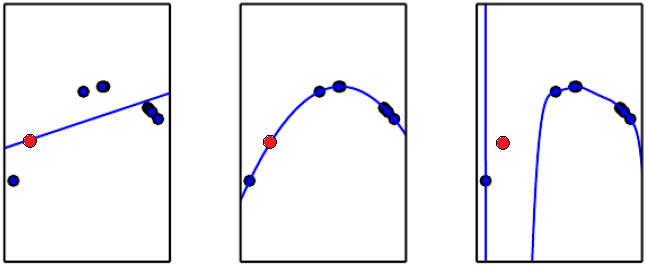
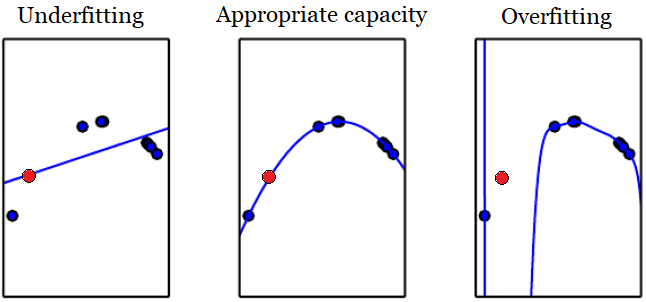
Update on Overleaf.

Changed region(s): [[0.7121, 0.0, 1.0, 0.9925], [0.3406, 0.0, 0.6811, 0.9925], [0.0, 0.0, 0.2786, 0.9925]]

diff --git a/chapters/state-of-the-art.tex b/chapters/state-of-the-art.tex
@@ -1,3 +1,7 @@
+\documentclass[../main.tex]{subfiles}
+
+\begin{document}
+
 \chapter{State of the Art}
 A typical powered exoskeleton\footnote{Definition provided by \textcite{Gorgey2018}: "Robotic exoskeletons or powered exoskeletons are considered wearable robotic units controlled by computer boards to power a system of motors, pneumatics, levers, or hydraulics to restore locomotion" \parencite[113]{Gorgey2018}.} would have a motor or some sort of actuator to produce torque at the joints (e.g. knee joint) to enable or assist the user.
 The amount of torque produced for any given motion depends on the control system of the exoskeleton.
@@ -30,18 +34,17 @@ Then it goes into detail about \ac{EMG} and its relation to muscle activity befo
 \label{sec:A-NonEMGBasedModels}
 \textit{Inverse dynamics} is, as defined by the Dictionary of Sport and Exercise Science and Medicine, "the calculation of forces and moments by using kinematics and data for mass and moment of inertia, effectively using Newton's second law of motion ($f = ma$) in reverse."\footnote{"inverse dynamics." Dictionary of Sport and Exercise Science and Medicine by Churchill Livingstone. 2008. Elsevier Limited 18 Mar. 2019 \url{https://medical-dictionary.thefreedictionary.com/inverse+dynamics}}
 In relation to the human body this means the use of kinetics and kinematics, e.g. motion capture, scaled model, and force plate data from a motion lab, to calculate joint torque estimations.
-As the method works with the equation of motion, it relies on correct scaling of each body segment, and joints angles and positions relative to the reaction forces \cite{Buchanan2004,Erdemir2007}.
+As the method works with the equation of motion, it relies on correct scaling of each body segment, and joints angles and positions relative to the reaction forces \cite{Erdemir2007, Buchanan2004}.
 Extensive research has been done on inverse dynamics and it is widely used in clinical applications such as, for example, gait analysis in rehabilitation \cite{Erdemir2007,Buchanan2004,Pizzolato2015}.
 
 OpenSim \cite{Delp2007, Seth2018} is an open-source software offering biomechanical models and simulation tools to, among many other things, model and run inverse dynamic solution on a scaled musculoskeletal model \cite{Buchanan2004, Delp2007, Seth2018, Pizzolato2017}.
 
 The inverse dynamics method alone does not provide any information about muscle activation and muscle forces.
 There are several methods that have been implemented to estimate muscle activation and muscle forces \cite{Erdemir2007}.
-Perhaps the most notable ones that are not \ac{EMG}-drive are the static and dynamic optimization methods \cite{Erdemir2007, Delp2007, Pizzolato2015}. 
+Perhaps the most notable ones that are not \ac{EMG}-drive are the static and dynamic optimization methods \cite{Erdemir2007, Pizzolato2015, Delp2007}. 
 
 The \textit{static optimization} method uses optimization with an objective function such as, for example, minimizing the sum of muscle forces from all muscles. 
 Through iteration the muscle forces, that both fit to the estimated joint torque from the inverse dynamics model and satisfy the objective function, are calculated \cite{Erdemir2007}. 
-\todo{Write about pros and cons of this method and include more references}
 
 \textit{Dynamic optimization} is an alternative to static optimization which, in short, uses forward dynamics to find the set of muscle activations that best fit the experimental kinematic data (e.g. with objective to minimize tracking error in kinematics and \ac{GRF}). 
 This method does not require inverse dynamics to first estimate joint torques since the constraint is rather the measured motion and \ac{GRF} data.
@@ -135,7 +138,13 @@ That motivates their development of \ac{CEINMS}, a tool developed to increase sa
 
 \section{Exoskeletons as Assistive Devices}
 \label{sec:A-Exoskeletons}
-The exoskeleton, as it will be discussed here, refers to a mobile electromechanical structure which can be worn by a human to provide power amplification, support and/or assistance in human motion. Exoskeletons can also be used for haptic interactions \cite{Anam2012}, but the focus here will be on the groups mentioned before. More specifically, the focus is on exoskeletons as assistive devices for those with physical impairment, i.e. for rehabilitation and/or normal human motion. This excludes exoskeletons as power amplification for professional or military purposes.
+The exoskeleton, as it will be discussed here, refers to a mobile electromechanical structure which can be worn by a human to provide power amplification, support and/or assistance in human motion (see figure \ref{fig:exoskeleton}). Exoskeletons can also be used for haptic interactions \cite{Anam2012}, but the focus here will be on the groups mentioned before. More specifically, the focus is on exoskeletons as assistive devices for those with physical impairment, i.e. for rehabilitation and/or normal human motion. This excludes exoskeletons as power amplification for professional or military purposes.
+\begin{figure}[ht]
+    \centering
+    \includegraphics[width=0.75\textwidth]{img/exoskeleton}
+    \caption{Two different designs of an exoskeleton. The one on the left is the Hyprid Assistive Limb exoskeleton developed by Cyberdyne for the purpose of aiding individuals with disabilities. The one on the right is the Ekso exoskeleton which is mostly used for rehabilitation purposes. The figure is adapted from \cite[Fig. 3]{Young2017}}
+    \label{fig:exoskeleton}
+\end{figure}
 
 To be able to provide assist to motion the exoskeleton needs a human-exoskeleton interaction together with a control system. 
 The control system is how the human motion is translated into mechanical activation, and vice versa. 
@@ -152,11 +161,10 @@ For example, one of the categories is the artificial intelligent method where on
 The \textit{muscle model} uses muscle neural activity and/or joint kinematics to predict muscle forces and resulting joint moments. These models can be split into the two categories: parametric and non-parametric muscle model. 
 The difference between them is that in addition to \ac{EMG} data the parametric model needs anthropometric data with information of muscle and joint dynamic \cite{Anam2012}.
 This is much like the \ac{EMG}-driven models discussed in the previous chapter \cite{Pizzolato2015}.
-The \textit{muscle model} has been researched as a way to provide real-time prediction of muscle forces and joint torques \cite{Anam2012, durandau, Pizzolato2015}. 
+The \textit{muscle model} has been researched as a way to provide real-time prediction of muscle forces and joint torques \cite{Pizzolato2015, Anam2012, durandau}. 
 Furthermore, as mentioned by \textcite{Anam2012}, much effort has been made towards predicting the user's intentions beforehand by using \ac{EMG} data.
-The Hill-type muscle model is possibly the most researched parametric muscle model and some modifications of it have been made throughout the years to make it more accurate \cite{Lloyd2003, Anam2012, Pizzolato2015, Lee14-1}.
-For the non-parametric muscle model an artificial neural network could be used \cite{Kiguchi2012,Lee14-1}.  
-\todo{Find more references towards exoskeletons and do more comparisons between methods}
+The Hill-type muscle model is possibly the most researched parametric muscle model and some modifications of it have been made throughout the years to make it more accurate \cite{Pizzolato2015, Lloyd2003, Anam2012, Lee14-1}.
+For the non-parametric muscle model an artificial neural network could be used \cite{Lee14-1, Kiguchi2012}.  
 
 \section{Artificial neural networks in biomechanics}
 The methods to predict joint torque discussed previously all use calculations based on anthropometry and dynamic models of the human body. 
@@ -204,11 +212,12 @@ All these concepts of machine learning apply to the subcategory of \acp{ANN} as 
 %Capacity: Representational capacity is what "specifies which family of functions the learning algorithm can choose from". Effective capacity refers to the fact that the "best" function within the family is rarely found and thus the actual capacity may be less than the representational capacity \parencite[111]{Goodfellow2016}.
 
 %"The answer to both of these questions—whether it is possible to represent a complicated function efficiently, and whether it is possible for the estimated function to generalize well to new inputs—is yes. The key insight is that a very large number of regions, such as O(2k ), can be defined withO(k) examples, so long as we introduce some dependencies between the regions through additional assumptions about the underlying data-generating distribution. In this way, we can actually generalize nonlocally (Bengio and Monperrus, 2005; Bengio et al., 2006c). Many different deep learning algorithms provide implicit or explicit assumptions that are reasonable for a broad range of AI tasks in order to capture these advantages." \parencite[156]{Goodfellow2016}
-
+One of the most important challenge and goal of machine learning is generalization, i.e. that the trained algorithm works equally well on data it has not been presented with before. 
+This highly relates to the concepts of overfitting and underfitting, as defined by \textcite{Goodfellow2016} and represented in figure \ref{fig:over-vs-under}: "Underﬁtting occurs when the model is not able to obtain a suﬃciently low error value on the training set. Overﬁtting occurs when the gap between the training error and test error is too large" \parencite[109]{Goodfellow2016}.
 \begin{figure}[ht]
     \centering
-    \includegraphics[width=0.95\textwidth]{img/overfitting-vs-underfitting}
-    \caption{Adapted and modified from \cite[Fig. 5.2]{Goodfellow2016}}
+    \includegraphics[width=0.9\textwidth]{img/overfitting-vs-underfitting}
+    \caption{Algorithm results for machine learning regression of a quadratic function. The blue dots are training samples, the red dot is a testing sample, and the blue line is the algorithms result. On the left there is a high error on the training set, and even though the test set is accurately predicted it is not reliable as there is underfitting. On the right there is clearly a huge error on the test set even though the training set is accurately predicted by the algorithm. Figure is adapted and modified from \cite[Fig. 5.2]{Goodfellow2016}}
     \label{fig:over-vs-under}
 \end{figure}
 
@@ -280,3 +289,9 @@ The input to the neuro-fuzzy system is the joint angles and the output are weigh
 The input is \ac{EMG} signal and feedback from previous prediction.
 
 The challenges related to using \ac{EMG} signal is its redundancy, nonlinear characteristics, and variability between tasks, subjects, conditions (e.g. pathologies, muscle fatigue), etc.
+There are many muscles that contribute to the joint torque and with the nonlinear characteristics a higher dimensional data is needed to be able to map the relationship.
+However, with higher dimension and the redundancy of the \ac{EMG} signal, there is a risk of overfitting.
+Furthermore, due to the variability it is difficult to get a solution that is generalizable.
+When working with \ac{EMG} data from many muscles it is useful to preprocess the data with dimensionality reduction and feature extraction and selection. This can contribute to learning efficiency and improve generalization \cite{Chen2018, Marsland2014}.
+
+\end{document}

diff --git a/chapters/1-introduction.tex b/chapters/1-introduction.tex
@@ -1,12 +1,35 @@
+\documentclass[../main.tex]{subfiles}
+
+\begin{document}
+
 \chapter{Introduction}
+The concept of \textit{exoskeletons} as it will be used in this thesis refers to \textit{robotic exoskeletons} or \textit{powered exoskeletons} which can be defined as mobile, computer controlled, electromechanical structure which can be worn by a human to provide power amplification, support and/or assistance in human motion \cite{Anam2012, Gorgey2018}. 
+Refer to appendix \ref{sec:A-Exoskeletons} and figure \ref{fig:exoskeleton} for more information on exoskeletons.
 
-We use the \emph{biblatex} package to handle our references.  We therefore use the
-command \texttt{parencite} to get a reference in parenthesis, like this
-\parencite[12]{Pizzolato2015}\cite{Pizzolato2015}.  It is also possible to include the author
-as part of the sentence using \texttt{textcite}, like talking about
-the work of \textcite{Lloyd2003}.
+What to talk about:
+Talk about exoskeletons:
+\begin{itemize}
+    \item Briefly how they assist with motion
+    \item Human-robot interaction
+    \item Smoothness of real-time control
+    \item Myoelectric control, parametric (Hill-type) vs. non-parametric (neural networks) \cite{Anam2012}.
+\end{itemize}
 
-\Blindtext
+Discuss limitations for using real-time analysis, e.g. data acquisition, complexity of analysis and processing power of microcontrollers on the exoskeleton.
+
+Discuss ANN together with EMG as an alternative to motion capture and complex analysis such as inverse dynamics and Hill-type muscle models. 
+Also briefly mention what ANN is all about and its limitations, specially in relation to overfitting and underfitting.
+
+
+
+%We use the \emph{biblatex} package to handle our references.  We therefore use the
+%command \texttt{parencite} to get a reference in parenthesis, like this
+%\parencite[12]{Pizzolato2015}\cite{Pizzolato2015}.  It is also possible to include the author
+%as part of the sentence using \texttt{textcite}, like talking about
+%the work of \textcite{Lloyd2003}.
 
 \section{Research Question}
-\blindtext
+State the research question: Is ANN feasible to use as a myoelectric control model in an exoskeleton. Is it possible to generalize EMG to torque prediction across different conditions of same subject or even across different subjects doing the same task. How does ANN perform in relation to inverse dynamics.
+%EMG-driven muscle models, specifically CEINMS Hill-type muscle model implementation
+
+\end{document}

diff --git a/chapters/3-methods.tex b/chapters/3-methods.tex
@@ -1,2 +1,32 @@
-\chapter{Methods}
+\documentclass[../main.tex]{subfiles}
 
+\begin{document}
+
+\chapter{Methods}
+Introduce TensorFlow and the Keras API for the implementation of the \ac{NN}.
+The training set for the \ac{NN} is normalized EMG data from regular walking.
+The training labels are the corresponding joint torque values obtained from CEINMS.
+
+Following list shows steps from experiment and data acquisition to ANN training:
+\begin{enumerate}
+    \item Experiment in motion lab collects motion data (Vicon camera system), EMG data (myon aktos nano), and reaction forces (Kistler force plates). See experiment properties and settings:
+    \begin{enumerate}
+        \item Exercises to record: Regular gait for the analysis and squatting, jumping, and heel-raise to get max EMG for EMG normalization.
+        \item Markers protocol: CGM2
+        \item EMG protocol: SENIAM
+    \end{enumerate}
+    \item Post-processing of data in Vicon Nexus 2.8 including marker trajectory gap filling, marker trajectory filtering/smoothing, event identification, and filtering force plate and EMG data. Possible to do ID here but perhaps better to do in OpenSim.
+    \item Run MOtoNMS to convert the .C3D output files from Nexus to .trc and .mot files necessary for OpenSim. If force plate and EMG data was not filtered in Nexus then it can be filtered here. The tool also normalizes the EMG relative to the maximum EMG it can find from all exercises. The output emg.mot is the training/validation/test data but the torque labels come from ID.
+    \item Run OpenSim using the gait2392\_simbody.osim model. Do Scaling > IK > ID to obtain the knee joint torques to use for training labels
+    \item Train the ANN with selected EMG dataset and corresponding joint torques.
+\end{enumerate}
+
+\input{tables/tools-and-devices.tex}
+
+\section{Data collection and Inverse Dynamics}
+
+\section{Surface-EMG filtering and feature extraction}
+
+\section{Training of the Neural Network}
+
+\end{document}

diff --git a/chapters/0-pre-content.tex b/chapters/0-pre-content.tex
@@ -1,7 +1,12 @@
 \titlepage
 
 \begin{abstract}
-  English abstract goes here.
+  \begin{enumerate}
+      \item Talk about general background of exoskeleton as an assistive device for people with impaired or lost motor functions or for rehabilitation. Put emphasize on the control and the need for accurate real-time control. 
+      \item Talk about myoelectric control, EMG-based models to predict joint torque, and how to make it real-time. State my research hypothesis which is that ANN algorithm could be used for EMG pattern recognition to allow real-time myoelectric control of joint torques.
+      \item Talk about methodology, i.e. motion capture > Vicon postprocessing > OpenSim and CEINMS postprocessing inverse dynamics to retrieve the joint torques which are the training labels for the network > type of neural network
+      \item Talk about the results and implications
+  \end{enumerate}
 
   %\blindtext
 \end{abstract}
@@ -9,12 +14,12 @@
 
 \begin{otherlanguage}{swedish}
   \begin{abstract}
-    Träutensilierna i ett tryckeri äro ingalunda en oviktig faktor,
-    för trevnadens, ordningens och ekonomiens upprätthållande, och
-    dock är det icke sällan som sorgliga erfarenheter göras på grund
-    af det oförstånd med hvilket kaster, formbräden och regaler
-    tillverkas och försäljas Kaster som äro dåligt hopkomna och af
-    otillräckligt.
+    %Träutensilierna i ett tryckeri äro ingalunda en oviktig faktor,
+    %för trevnadens, ordningens och ekonomiens upprätthållande, och
+    %dock är det icke sällan som sorgliga erfarenheter göras på grund
+    %af det oförstånd med hvilket kaster, formbräden och regaler
+    %tillverkas och försäljas Kaster som äro dåligt hopkomna och af
+    %otillräckligt.
   \end{abstract}
 \end{otherlanguage}
 

diff --git a/tables/tools-and-devices.tex b/tables/tools-and-devices.tex
@@ -1,0 +1,31 @@
+\begin{table}[ht!]
+    \centering
+    \caption{List of tools and softwares and their function in this research.}
+    \label{tab:tools-and-devices}
+    {\def\arraystretch{2}\tabcolsep=5pt
+    \begin{tabular}{>{\bf}p{3.5cm}|p{6cm}}
+        {\normalfont Tool}  & Function              \\ \hline
+        Vicon               & Motion Capture System \\
+        myon aktos nano     & EMG measurement       \\
+        Kistler             & Force plates          \\
+        MOtoNMS             & Generate files for OpenSim and CEINMS from motion capture data \\
+        OpenSim             & Creating and scaling musculoskeletal model and perform \ac{IK} and \ac{ID} for joint torque \\%, and muscle analysis \\
+        %CEINMS              & Calculating joint torque \\
+        TensorFlow          & \ac{ANN} design
+    \end{tabular}
+    }
+\end{table}
+
+%\begin{table}[ht!]
+%    \centering
+%    \caption{Description of tools and devices}
+%    \label{tab:tools-and-devices}
+%    \begin{tabular}{l | l}%{>{\raggedright}p{4.2cm}|p{8cm}}
+%        Function                & Tool/Device       \\ \hline
+%        Motion Capture System   & Vicon             \\
+%        EMG measurement         & myon aktos nano   \\
+%        Force plates            & Kistler           \\
+%        Generate files for OpenSim and CEINMS from motion capture
+%    \end{tabular}
+%\end{table}
+  

diff --git a/main.tex b/main.tex
@@ -17,35 +17,37 @@
 \date{\today}
 
 % Uncomment the next line to include cover generated at https://intra.kth.se/kth-cover?l=en
-%\kthcover{kth-cover.pdf}
+\kthcover{kth-cover.pdf}
 
 \begin{document}
 \frontmatter
 
-%\include{chapters/0-pre-content}
+\include{chapters/0-pre-content}
 
 
 % Mainmatter is where the actual contents of the thesis goes
 \mainmatter
 
-%\include{chapters/1-introduction}
+\subfile{chapters/1-introduction}
 
-%\include{chapters/2-background}
+\subfile{chapters/2-background}
 
 %\include{chapters/3-methods}
+\subfile{chapters/3-methods}
 
-%\include{chapters/4-results}
+\subfile{chapters/4-results}
 
-%\include{chapters/5-discussion}
+\subfile{chapters/5-discussion}
 
-%\include{chapters/6-conclusion}
+\subfile{chapters/6-conclusion}
 
 % Print the bibliography (and make it appear in the table of contents)
 \printbibliography[heading=bibintoc]
 
 \appendix
 
-\include{chapters/appendices}
+\subfile{chapters/appendices}
+%\printbibliography[heading=bibintoc]
 
 \tailmatter
 

diff --git a/chapters/2-background.tex b/chapters/2-background.tex
@@ -1,2 +1,14 @@
+\documentclass[../main.tex]{subfiles}
+
+\begin{document}
+
 \chapter{Background}
-%\blindtext
+Briefly reflect on the main points from the State of the Art chapter.
+Briefly explain inverse kinematics, inverse dynamics, the Hill-type muscle model from \cite{Pizzolato2015} and ANN algorithm.
+
+\section{Surface EMG signal}
+\begin{align}
+    m(k) = \sum_{i=1}^R \sum_{l=-\infty}^{+\infty}x_{il}\left(k-\Phi_{i,k}\right) + \nu (k)
+\end{align}
+
+\end{document}

diff --git a/chapters/abbreviations.tex b/chapters/abbreviations.tex
@@ -96,6 +96,18 @@
     class   = abbrev
 }
 
+\DeclareAcronym{IK}{
+    short   = IK ,
+    long    = inverse kinematics ,
+    class   = abbrev
+}
+
+\DeclareAcronym{ID}{
+    short   = ID ,
+    long    = inverse dynamics ,
+    class   = abbrev
+}
+
 \DeclareAcronym{GRF}{
     short           = GRF ,
     short-plural    = s ,

diff --git a/extra-packages.tex b/extra-packages.tex
@@ -19,6 +19,12 @@
 % For align equations
 \usepackage{amsmath}
 
+% For special table actions
+\usepackage{array}
+
+% To be able to compile each chapter separately 
+\usepackage{subfiles}
+
 % Setup for abbreviations
 \usepackage{enumitem}
 \newlength\myitemwidth

diff --git a/chapters/4-results.tex b/chapters/4-results.tex
@@ -1,2 +1,8 @@
+\documentclass[../main.tex]{subfiles}
+
+\begin{document}
+
 \chapter{Results}
 Describe the results of the degree project.
+
+\end{document}

diff --git a/chapters/5-discussion.tex b/chapters/5-discussion.tex
@@ -1,2 +1,8 @@
+\documentclass[../main.tex]{subfiles}
+
+\begin{document}
+
 \chapter{Discussion}
 %\blindtext
+
+\end{document}

diff --git a/chapters/6-conclusion.tex b/chapters/6-conclusion.tex
@@ -1,2 +1,7 @@
+\documentclass[../main.tex]{subfiles}
+
+\begin{document}
+
 \chapter{Conclusions}
 
+\end{document}
